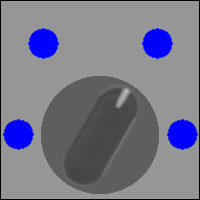
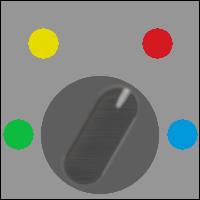
design fixes

diff --git a/src/quickmaff_belman/gui/controller/MainViewController.java b/src/quickmaff_belman/gui/controller/MainViewController.java
@@ -5,8 +5,6 @@
  */
 package quickmaff_belman.gui.controller;
 
-
-
 import java.io.IOException;
 import java.net.URL;
 import java.sql.SQLException;
@@ -19,6 +17,7 @@ import javafx.scene.control.Label;
 import javafx.scene.image.Image;
 import javafx.scene.image.ImageView;
 import javafx.scene.input.MouseEvent;
+import javafx.scene.layout.AnchorPane;
 import javafx.scene.layout.FlowPane;
 import javafx.stage.Stage;
 import quickmaff_belman.gui.model.BoardMaker;
@@ -34,6 +33,8 @@ import quickmaff_belman.gui.model.Model;
 public class MainViewController implements Initializable {
 
     @FXML
+    private AnchorPane anchorPaneAll;
+    @FXML
     private ImageView imgBelmanLogo;
     @FXML
     private ImageView iView;
@@ -47,11 +48,10 @@ public class MainViewController implements Initializable {
     private FlowPane flowPane;
     @FXML
     private ImageView filter;
-    
+
     private Model model;
     private Stage stage;
     private ExecutorService executor;
-    
 
     /**
      * Initializes the controller class.
@@ -69,7 +69,8 @@ public class MainViewController implements Initializable {
     private void changeLanguage(MouseEvent event) {
 
         Language language = model.changeLanguage();
-        switch (language) {
+        switch (language)
+        {
             case DANISH:
                 Image daImage = new Image("/quickmaff_belman/gui/view/images/knapSprogDK.png");
                 languageSwitch.setImage(daImage);
@@ -95,7 +96,6 @@ public class MainViewController implements Initializable {
         executor.submit(fWatcher);
     }
 
-
     private void setAllText() {
         lblDepartment.setText(model.getDepartmentName());
     }
@@ -104,7 +104,8 @@ public class MainViewController implements Initializable {
     private void filtering(MouseEvent event) {
         Language language = model.changeLanguage();
 
-        switch (language) {
+        switch (language)
+        {
             case DANISH:
                 Image buttonImage = new Image("/quickmaff_belman/gui/view/images/filterknap1.png");
                 filter.setImage(buttonImage);
@@ -121,7 +122,6 @@ public class MainViewController implements Initializable {
     }
 
     private void setGraphics() {
-        
         imgBelmanLogo.translateXProperty().bind(stage.widthProperty().multiply(0.5));
         imgBelmanLogo.translateYProperty().bind(stage.heightProperty().multiply(0.07));
         imgBackground.fitHeightProperty().bind(stage.heightProperty());
@@ -129,10 +129,9 @@ public class MainViewController implements Initializable {
         lblDepartment.translateXProperty().bind(stage.widthProperty().multiply(0.09));
         lblDepartment.translateYProperty().bind(stage.heightProperty().multiply(0.06));
         filter.translateXProperty().bind(stage.widthProperty().multiply(0.925));
-        filter.translateYProperty().bind(stage.heightProperty().multiply(-0.008));
+        filter.translateYProperty().bind(stage.heightProperty().multiply(0.015));
         languageSwitch.translateXProperty().bind(stage.widthProperty().multiply(0.925));
         languageSwitch.translateYProperty().bind(stage.heightProperty().multiply(0.06));
-
     }
-    
+
 }

diff --git a/src/quickmaff_belman/gui/model/BoardMaker.java b/src/quickmaff_belman/gui/model/BoardMaker.java
@@ -69,7 +69,7 @@ public class BoardMaker implements Runnable {
                     view.setFitWidth(160);
                     
                     sPane.addEventHandler(javafx.scene.input.MouseEvent.MOUSE_CLICKED, e -> {
-                        Image gul = new Image("/quickmaff_belman/gui/view/images/postit.png");
+                        Image gul = new Image("/quickmaff_belman/gui/view/images/postit_yellow.png");
                         Image blue = new Image("/quickmaff_belman/gui/view/images/postit_blue.png");
                         Image green = new Image("/quickmaff_belman/gui/view/images/postit_green.png");
                         Image red = new Image("/quickmaff_belman/gui/view/images/postit_red.png");
@@ -136,7 +136,7 @@ public class BoardMaker implements Runnable {
     }
 
     private final ImageView getPostItColour(BoardTask bTask) {
-        Image gulPostIt = new Image("/quickmaff_belman/gui/view/images/postit.png");
+        Image gulPostIt = new Image("/quickmaff_belman/gui/view/images/postit_yellow.png");
         Image bluePostIt = new Image("/quickmaff_belman/gui/view/images/postit_blue.png");
         Image greenPostIt = new Image("/quickmaff_belman/gui/view/images/postit_green.png");
         Image redPostIt = new Image("/quickmaff_belman/gui/view/images/postit_red.png");
